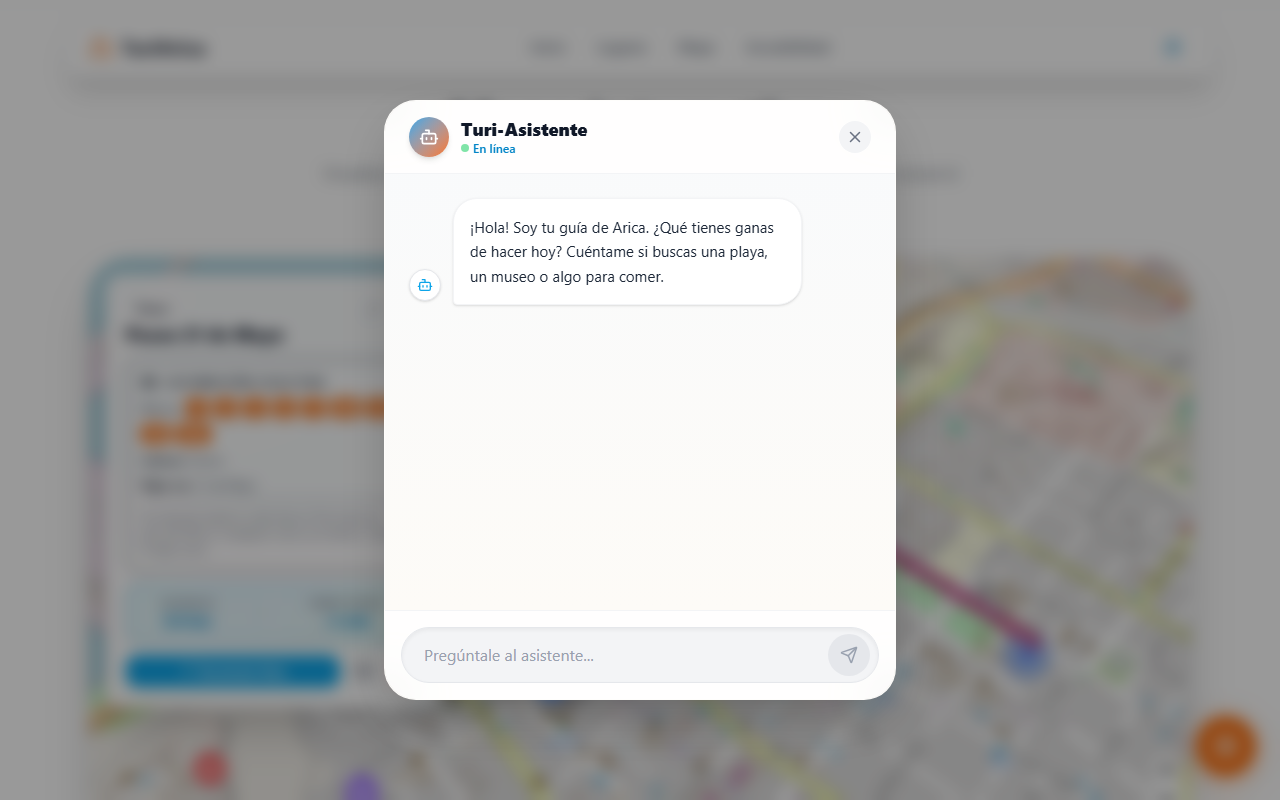
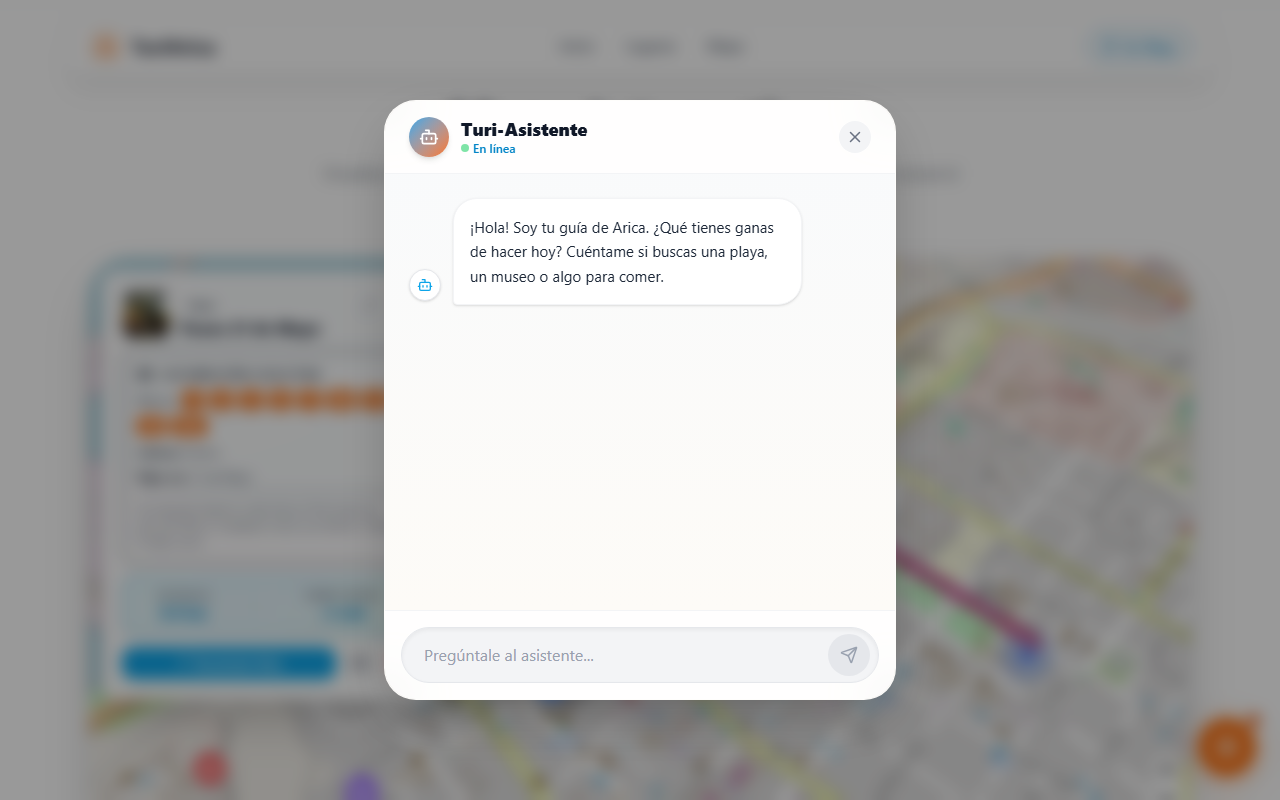
feat(places): agregar fotografias reales y autenticas de cada lugar en tarjetas y modales

diff --git a/src/data/places.js b/src/data/places.js
@@ -1,6 +1,8 @@
 export const places = [
   {
-    id: 1, icon: "Umbrella", name: "Playa El Laucho", category: "Playa", lat: -18.4879, lng: -70.3267, color: "#0EA5E9", audioFile: "audios/laucho_audio.mp3",
+    id: 1, icon: "Umbrella", name: "Playa El Laucho", category: "Playa", lat: -18.4879, lng: -70.3267, color: "#0EA5E9",
+    image: "images/places/laucho.jpg",
+    audioFile: "audios/laucho_audio.mp3",
     shortDesc: "La playa más popular y accesible de Arica.",
     fullDesc: "Playa El Laucho es el balneario por excelencia de Arica. Sus aguas de color turquesa son inusualmente tranquilas y de temperatura agradable, lo que la convierte en una piscina natural ideal para el baño seguro de niños y adultos. Cuenta con una excelente infraestructura inclusiva, incluyendo rampas que llegan casi hasta la orilla del mar, baños adaptados, duchas y arriendo de sombrillas. En su entorno encontrarás una vibrante oferta gastronómica para disfrutar de un hermoso atardecer frente al Pacífico.",
     directions: "Desde el centro, tomar Av. Comandante San Martín al sur por 2 km. Micros 12, 14, 10, 8 (letrero 'Centro/Mall' en ida).",
@@ -8,7 +10,9 @@ export const places = [
     transport: { lineas: ["12", "14", "10", "8"], direccion: "sur", letrero: "Centro / Mall", parada: "Av. Comandante San Martín" }
   },
   {
-    id: 2, icon: "Landmark", name: "Museo de Sitio Colón 10", category: "Museo", lat: -18.4806, lng: -70.3216, color: "#8B5CF6", audioFile: "audios/Museo_audio.mp3",
+    id: 2, icon: "Landmark", name: "Museo de Sitio Colón 10", category: "Museo", lat: -18.4806, lng: -70.3216, color: "#8B5CF6",
+    image: "images/places/colon10.jpg",
+    audioFile: "audios/Museo_audio.mp3",
     shortDesc: "Hogar de las momias Chinchorro, las más antiguas del mundo.",
     fullDesc: "Este asombroso museo está construido literalmente sobre un cementerio prehispánico. El Museo de Sitio Colón 10 resguarda in situ a las momias de la Cultura Chinchorro, reconocidas por la UNESCO como Patrimonio de la Humanidad. Estas momias tienen más de 7.000 años de antigüedad, superando en milenios a las momias egipcias. A través de un suelo de cristal y pasarelas totalmente accesibles, los visitantes pueden observar los cuerpos y ofrendas exactamente como fueron descubiertos, ofreciendo una ventana incomparable al pasado.",
     directions: "Calle Colón 10, a 3 cuadras de la Plaza Colón. Micros 1,2,3,5,7,10,11,16,113 (letrero 'Centro'). Bajas en calle Colón y caminas 3 cuadras.",
@@ -16,7 +20,9 @@ export const places = [
     transport: { lineas: ["1", "2", "3", "5", "7", "10", "11", "16", "113"], direccion: "centro", letrero: "Centro", parada: "Calle Colón" }
   },
   {
-    id: 3, icon: "Church", name: "Iglesia San Marcos", category: "Histórico", lat: -18.4789, lng: -70.3207, color: "#F59E0B", audioFile: "audios/Catedral_audio.mp3",
+    id: 3, icon: "Church", name: "Iglesia San Marcos", category: "Histórico", lat: -18.4789, lng: -70.3207, color: "#F59E0B",
+    image: "images/places/catedral.jpg",
+    audioFile: "audios/Catedral_audio.mp3",
     shortDesc: "Diseñada por Gustave Eiffel, ícono de Arica.",
     fullDesc: "Declarada Monumento Nacional, la Iglesia San Marcos es una joya arquitectónica diseñada en 1876 por los talleres del famoso ingeniero francés Gustave Eiffel. Lo más sorprendente es que su estructura es completamente de fierro fundido, traída en barco desde Francia y ensamblada en Arica para resistir los terremotos de la zona. Su estilo gótico, sus coloridos vitrales y su asimétrica torre la convierten en una parada obligatoria en el corazón de la ciudad. El acceso principal cuenta con rampas para facilitar el ingreso.",
     directions: "Plaza Colón, centro histórico. Cualquier micro con letrero 'Centro' te deja en la plaza.",
@@ -24,7 +30,9 @@ export const places = [
     transport: { lineas: ["1", "2", "3", "5", "7", "10", "11", "16", "113"], direccion: "centro", letrero: "Centro", parada: "Plaza Colón" }
   },
   {
-    id: 4, icon: "Mountain", name: "El Morro de Arica", category: "Histórico", lat: -18.4803, lng: -70.3236, color: "#EF4444", audioFile: "audios/Morro_audio.mp3",
+    id: 4, icon: "Mountain", name: "El Morro de Arica", category: "Histórico", lat: -18.4803, lng: -70.3236, color: "#EF4444",
+    image: "images/places/morro.jpg",
+    audioFile: "audios/Morro_audio.mp3",
     shortDesc: "Cerro con museo histórico y vistas panorámicas.",
     fullDesc: "El Morro de Arica es el símbolo indiscutido de la ciudad. Este imponente peñón costero de 139 metros de altura fue el escenario de una de las batallas más decisivas de la Guerra del Pacífico en 1880. Hoy en día, su cima funciona como un gran balcón natural que ofrece las mejores vistas panorámicas de la ciudad, el puerto y el Océano Pacífico. En la cumbre podrás visitar el Museo Histórico y de Armas, recorrer las trincheras originales y observar el Cristo de la Paz.",
     directions: "Acceso por Av. Colón o calle Rafael Sotomayor. Estacionamiento gratuito. En micro, toma 12,14,10,8 con letrero 'Centro/Mall' y baja en los pies del Morro.",
@@ -32,7 +40,9 @@ export const places = [
     transport: { lineas: ["12", "14", "10", "8"], direccion: "sur", letrero: "Centro / Mall", parada: "Pies del Morro" }
   },
   {
-    id: 5, icon: "Bird", name: "Humedal del Río Lluta", category: "Naturaleza", lat: -18.416128, lng: -70.322369, color: "#10B981", audioFile: "audios/Humedal_audio.mp3",
+    id: 5, icon: "Bird", name: "Humedal del Río Lluta", category: "Naturaleza", lat: -18.416128, lng: -70.322369, color: "#10B981",
+    image: "images/places/humedal.jpg",
+    audioFile: "audios/Humedal_audio.mp3",
     shortDesc: "Santuario natural y refugio de aves migratorias.",
     fullDesc: "Un oasis de vida donde el desierto se encuentra con el mar. El Humedal de la desembocadura del Río Lluta es un Santuario de la Naturaleza de más de 300 hectáreas. Es un punto de descanso y alimentación crucial en la ruta migratoria de más de 160 especies de aves, incluyendo flamencos, patos jergón y gaviotas. Ofrece senderos planos y miradores de madera diseñados para observar la fauna sin perturbar el ecosistema, siendo un lugar perfecto para la fotografía y la conexión con la naturaleza.",
     directions: "Norte de Arica, por Ruta 5 o Av. Las Dunas. No hay micros directas. Solo taxi o auto particular.",
@@ -40,7 +50,9 @@ export const places = [
     transport: { lineas: ["taxi", "auto"], direccion: "norte", letrero: "No hay micros", parada: "Solo vehículo particular" }
   },
   {
-    id: 6, icon: "Tent", name: "Cuevas de Anzota", category: "Naturaleza", lat: -18.5498, lng: -70.3312, color: "#6366F1", audioFile: "audios/CuevasDeAnzota_audio.mp3",
+    id: 6, icon: "Tent", name: "Cuevas de Anzota", category: "Naturaleza", lat: -18.5498, lng: -70.3312, color: "#6366F1",
+    image: "images/places/anzota.jpg",
+    audioFile: "audios/CuevasDeAnzota_audio.mp3",
     shortDesc: "Sistema de grutas en acantilados, lobos marinos.",
     fullDesc: "Las Cuevas de Anzota ofrecen uno de los paisajes más dramáticos y hermosos de la región. Talladas durante milenios por el fuerte oleaje del océano contra los acantilados de la Cordillera de la Costa, estas cavernas naturales fueron utilizadas hace miles de años por la cultura Chinchorro. Hoy, un sendero interpretativo te permite caminar dentro de las grutas, observar la rica fauna marina (como lobos marinos y aves guaneras) y sentir la imponente fuerza de la naturaleza.",
     directions: "12 km al sur por Ruta 1. No hay micros. Solo taxi o auto particular.",
@@ -48,7 +60,9 @@ export const places = [
     transport: { lineas: ["taxi", "auto"], direccion: "sur", letrero: "No hay micros", parada: "Solo vehículo particular" }
   },
   {
-    id: 7, icon: "Utensils", name: "Terminal Agropecuario ASOCAPEC", category: "Gastronomía", lat: -18.4964, lng: -70.2861, color: "#C2714F", audioFile: "audios/terminal_audio.mp3",
+    id: 7, icon: "Utensils", name: "Terminal Agropecuario ASOCAPEC", category: "Gastronomía", lat: -18.4964, lng: -70.2861, color: "#C2714F",
+    image: "images/places/agro.jpg",
+    audioFile: "audios/terminal_audio.mp3",
     shortDesc: "Corazón gastronómico: aceitunas, frutas, tradición.",
     fullDesc: "Visitar el 'Agro' es sumergirse en una explosión de colores, aromas y sabores auténticos del norte de Chile. Este inmenso mercado es el punto neurálgico donde los agricultores de los valles de Azapa y Lluta traen sus mejores productos frescos. Aquí podrás degustar las famosas aceitunas de Azapa, frutas tropicales como mangos y maracuyá, y disfrutar de cocinerías tradicionales que ofrecen platos típicos a excelentes precios. Sus amplios pasillos facilitan el recorrido.",
     directions: "Entrada norte, Panamericana Norte. Micros que digan 'Agro' en el letrero: 12, 14, 8, 16, 113 (líneas naranja y roja).",
@@ -56,7 +70,9 @@ export const places = [
     transport: { lineas: ["12", "14", "8", "16", "113"], direccion: "norte", letrero: "Agro", parada: "Terminal ASOCAPEC" }
   },
   {
-    id: 8, icon: "Waves", name: "Playa Chinchorro", category: "Playa", lat: -18.4630, lng: -70.3052, color: "#38BDF8", audioFile: "audios/chinchorro_audio.mp3",
+    id: 8, icon: "Waves", name: "Playa Chinchorro", category: "Playa", lat: -18.4630, lng: -70.3052, color: "#38BDF8",
+    image: "images/places/chinchorro.jpg",
+    audioFile: "audios/chinchorro_audio.mp3",
     shortDesc: "Extensa playa de aguas cálidas, ideal para familias y caminatas.",
     fullDesc: "Playa Chinchorro es una de las playas más extensas y concurridas de Arica. Destaca por sus aguas inusualmente cálidas y su oleaje moderado, lo que la hace perfecta para la natación y para disfrutar en familia. Su amplia costanera está llena de vida, rodeada de palmeras, parques infantiles, heladerías y restaurantes, creando un ambiente vibrante tanto de día como de noche.",
     directions: "Sector norte de Arica, Av. Raúl Pey Casado. Toma micro 12 o 14 (letrero 'Centro/Mall' en ida), baja en España con Buenos Aires, camina 1 cuadra hacia el oeste.",
@@ -64,7 +80,9 @@ export const places = [
     transport: { lineas: ["12", "14"], direccion: "norte", letrero: "Centro / Mall", parada: "España con Buenos Aires (luego caminar 1 cuadra)" }
   },
   {
-    id: 9, icon: "Activity", name: "Playa Las Machas", category: "Playa", lat: -18.4455, lng: -70.3038, color: "#0284C7", audioFile: "audios/machas_audios.mp3",
+    id: 9, icon: "Activity", name: "Playa Las Machas", category: "Playa", lat: -18.4455, lng: -70.3038, color: "#0284C7",
+    image: "images/places/machas.jpg",
+    audioFile: "audios/machas_audios.mp3",
     shortDesc: "Playa de fuerte oleaje, el paraíso local del surf y bodyboard.",
     fullDesc: "Ubicada a continuación de Playa Chinchorro hacia el norte, Las Machas es conocida por sus fuertes corrientes, por lo que no es apta para el baño. Sin embargo, es un verdadero paraíso para los amantes de los deportes acuáticos como el surf, bodyboard y kitesurf. Su extensa arena oscura es también el lugar preferido para pescar, pasear mascotas y contemplar los espectaculares atardeceres ariqueños.",
     directions: "Extremo norte del borde costero, por Av. Las Dunas. Toma micro 12 o 14 (letrero 'Centro/Mall'), baja en Eliat con Av. España, camina 1 cuadra hacia el oeste (hacia el Pipo).",
@@ -72,7 +90,9 @@ export const places = [
     transport: { lineas: ["12", "14"], direccion: "norte", letrero: "Centro / Mall", parada: "Eliat con Av. España (luego caminar 1 cuadra)" }
   },
   {
-    id: 10, icon: "Fish", name: "Playa La Lisera", category: "Playa", lat: -18.4933, lng: -70.3261, color: "#14B8A6", audioFile: "audios/lisera_audio.mp3",
+    id: 10, icon: "Fish", name: "Playa La Lisera", category: "Playa", lat: -18.4933, lng: -70.3261, color: "#14B8A6",
+    image: "images/places/lisera.jpg",
+    audioFile: "audios/lisera_audio.mp3",
     shortDesc: "Playa con forma de herradura, arena blanca y aguas sin olas.",
     fullDesc: "Playa La Lisera se caracteriza por su singular forma de herradura cerrada, la cual la protege de las corrientes oceánicas y la convierte en una gran piscina natural de aguas sumamente tranquilas. Es el lugar perfecto para ir con niños pequeños o practicar snorkel seguro. Cuenta con hermosas áreas verdes, arena blanca y caleta de pescadores cercana, siendo uno de los balnearios más tradicionales al sur del Morro.",
     directions: "Al sur de Playa El Laucho, continuando por Av. Comandante San Martín. Las mismas micros que van a El Laucho (12,14,10,8) te dejan cerca.",
@@ -80,7 +100,9 @@ export const places = [
     transport: { lineas: ["12", "14", "10", "8"], direccion: "sur", letrero: "Centro / Mall", parada: "Av. Comandante San Martín" }
   },
   {
-    id: 11, icon: "Map", name: "Ex Isla Alacrán", category: "Histórico", lat: -18.4803, lng: -70.3324, color: "#475569", audioFile: "audios/alacran_audio.mp3",
+    id: 11, icon: "Map", name: "Ex Isla Alacrán", category: "Histórico", lat: -18.4803, lng: -70.3324, color: "#475569",
+    image: "images/places/alacran.jpg",
+    audioFile: "audios/alacran_audio.mp3",
     shortDesc: "Península histórica y sede de la famosa y peligrosa ola 'El Gringo'.",
     fullDesc: "Esta antigua isla fue unida artificialmente al continente en la década de 1960. La Ex Isla Alacrán es un monumento nacional que aún conserva restos del antiguo fuerte colonial San José. A nivel internacional, es famosa por la ola 'El Gringo' (o 'Flopos'), una ola tubular de nivel mundial que rompe peligrosamente sobre roca y que atrae a campeones mundiales de surf y bodyboard.",
     directions: "Frente al Morro de Arica, ingresando por el borde costero centro. Micros 12,14,8,10 (letrero 'Centro/Mall') te dejan en el borde costero, caminas hacia el Morro.",
@@ -88,7 +110,9 @@ export const places = [
     transport: { lineas: ["12", "14", "8", "10"], direccion: "sur", letrero: "Centro / Mall", parada: "Borde Costero" }
   },
   {
-    id: 12, icon: "Trophy", name: "Estadio Carlos Dittborn", category: "Deporte", lat: -18.4871, lng: -70.2974, color: "#22C55E", audioFile: "audios/dittborn_audio.mp3",
+    id: 12, icon: "Trophy", name: "Estadio Carlos Dittborn", category: "Deporte", lat: -18.4871, lng: -70.2974, color: "#22C55E",
+    image: "images/places/dittborn.jpg",
+    audioFile: "audios/dittborn_audio.mp3",
     shortDesc: "Histórico estadio, sede del Mundial de 1962 y hogar del club San Marcos.",
     fullDesc: "El Estadio Mundialista Carlos Dittborn es un orgullo deportivo de la ciudad. Fue construido y modernizado para ser sede de la Copa Mundial de la FIFA en 1962, gesta que se logró bajo el histórico lema 'Porque no tenemos nada, queremos hacerlo todo'. Hoy en día, es el corazón del fútbol local, siendo la casa oficial del equipo San Marcos de Arica ('Los Bravos del Morro').",
     directions: "Av. 18 de Septiembre 2000, sector este de la ciudad. Micros 16, 8, 113 (bajan cerca). También 12 y 14 dejan en Av. 18 de Septiembre a unas cuadras.",
@@ -96,7 +120,9 @@ export const places = [
     transport: { lineas: ["16", "8", "113", "12", "14"], direccion: "este", letrero: "18 de Septiembre / Estadio", parada: "Av. 18 de Septiembre" }
   },
   {
-    id: 13, icon: "Shell", name: "Museo del Mar", category: "Museo", lat: -18.4791, lng: -70.3193, color: "#3B82F6", audioFile: "audios/museodelmar_audio.mp3",
+    id: 13, icon: "Shell", name: "Museo del Mar", category: "Museo", lat: -18.4791, lng: -70.3193, color: "#3B82F6",
+    image: "images/places/museodelmar.jpg",
+    audioFile: "audios/museodelmar_audio.mp3",
     shortDesc: "Increíble colección de caracolas, fósiles y especies marinas.",
     fullDesc: "Ubicado en el pintoresco Pasaje Sangra, en pleno centro de la ciudad, el Museo del Mar de Arica exhibe una fascinante colección privada de más de 1.200 especies de caracolas marinas procedentes tanto de las costas de Chile como de diversas partes del mundo. Además de las conchas, el museo cuenta con acuarios y fósiles que enseñan a grandes y chicos sobre la increíble biodiversidad del Océano Pacífico.",
     directions: "Pasaje Sangra 315, a pasos de la calle peatonal 21 de Mayo. Cualquier micro con letrero 'Centro' te deja en 21 de Mayo, caminas al Pasaje Sangra.",
@@ -104,7 +130,9 @@ export const places = [
     transport: { lineas: ["1", "2", "3", "5", "7", "10", "11", "16", "113"], direccion: "centro", letrero: "Centro", parada: "21 de Mayo" }
   },
   {
-    id: 14, icon: "ShoppingBag", name: "Paseo 21 de Mayo", category: "Paseo", lat: -18.4783, lng: -70.3188, color: "#EC4899", audioFile: "audios/21demayo_audio.mp3",
+    id: 14, icon: "ShoppingBag", name: "Paseo 21 de Mayo", category: "Paseo", lat: -18.4783, lng: -70.3188, color: "#EC4899",
+    image: "images/places/21demayo.jpg",
+    audioFile: "audios/21demayo_audio.mp3",
     shortDesc: "El corazón comercial y peatonal de Arica, ideal para pasear y comprar.",
     fullDesc: "La calle peatonal 21 de Mayo es el punto de encuentro por excelencia de la ciudad. A lo largo de sus cuadras sombreadas por modernos toldos, encontrarás una enorme variedad de tiendas, galerías comerciales, artesanías locales, cafeterías y restaurantes. Es el mejor lugar para comprar recuerdos, probar un helado, disfrutar de la música de los artistas callejeros o probar un pisco sour de maracuyá en alguna terraza.",
     directions: "Se extiende desde la calle Arturo Prat hasta los pies del Morro. Cualquier micro con letrero 'Centro' te deja cerca.",

diff --git a/src/components/PlaceCard.jsx b/src/components/PlaceCard.jsx
@@ -10,49 +10,69 @@ export default function PlaceCard({ place, onAudioClick, onRouteClick, onMoreCli
       whileInView={{ opacity: 1, y: 0 }}
       viewport={{ once: true, margin: "-50px" }}
       whileHover={{ y: -5 }}
-      className="glass-panel rounded-2xl overflow-hidden flex flex-col h-full group bg-white shadow-lg hover:shadow-xl transition-shadow"
+      className="glass-panel rounded-2xl overflow-hidden flex flex-col h-full group bg-white shadow-md hover:shadow-2xl transition-all border border-gray-100"
     >
-      <div 
-        className="h-32 relative overflow-hidden flex items-center justify-center"
-        style={{ background: `linear-gradient(135deg, ${place.color}40, ${place.color}80)` }}
-      >
-        <span className="absolute top-3 left-3 px-3 py-1 bg-white/90 backdrop-blur-md rounded-full text-xs font-bold text-gray-800 shadow-sm">
+      {/* Real Place Photo with Category and Icon Overlay */}
+      <div className="h-44 sm:h-48 relative overflow-hidden bg-slate-900">
+        <img 
+          src={place.image} 
+          alt={place.name} 
+          className="w-full h-full object-cover group-hover:scale-108 transition-transform duration-500 ease-out"
+          loading="lazy"
+        />
+        <div className="absolute inset-0 bg-gradient-to-t from-black/70 via-black/15 to-black/25 pointer-events-none" />
+
+        {/* Category Badge */}
+        <span className="absolute top-3 left-3 px-3 py-1 bg-white/95 backdrop-blur-md rounded-full text-xs font-bold text-gray-900 shadow-md border border-white/60">
           {place.category}
         </span>
-        <motion.div 
-          whileHover={{ scale: 1.2, rotate: 10 }}
-          className="p-4 bg-white/20 rounded-2xl backdrop-blur-sm border border-white/40 shadow-lg"
+
+        {/* Floating Brand Color Icon */}
+        <div 
+          className="absolute bottom-3 right-3 w-10 h-10 rounded-2xl backdrop-blur-md border border-white/50 shadow-lg flex items-center justify-center text-white transition-transform duration-300 group-hover:scale-110"
+          style={{ backgroundColor: `${place.color}f0` }}
         >
-          <IconComponent size={32} className="text-white" />
-        </motion.div>
+          <IconComponent size={20} />
+        </div>
       </div>
 
-      <div className="p-6 flex flex-col flex-grow">
-        <h3 className="text-xl font-bold mb-2 text-gray-900 group-hover:text-brand-600 transition-colors">
+      <div className="p-5 sm:p-6 flex flex-col flex-grow">
+        <h3 className="text-lg sm:text-xl font-extrabold mb-1.5 text-gray-900 group-hover:text-brand-600 transition-colors">
           {place.name}
         </h3>
-        <p className="text-gray-600 text-sm mb-6 flex-grow">
+
+        {/* Locomotion quick pill */}
+        {place.transport?.lineas && (
+          <div className="flex items-center gap-1.5 mb-2.5 text-[11px] font-semibold text-gray-500">
+            <LucideIcons.Bus size={13} className="text-accent-500 shrink-0" />
+            <span className="truncate">Micros: {place.transport.lineas.slice(0, 4).join(', ')}{place.transport.lineas.length > 4 ? '...' : ''}</span>
+          </div>
+        )}
+
+        <p className="text-gray-600 text-xs sm:text-sm mb-5 flex-grow line-clamp-2 leading-relaxed">
           {place.shortDesc}
         </p>
 
-        <div className="flex gap-2 mt-auto">
+        <div className="flex items-center gap-2 mt-auto pt-2 border-t border-gray-100">
           <button 
             onClick={() => onAudioClick(place)}
-            className="p-2 rounded-xl bg-gray-100 hover:bg-gray-200 text-gray-600 hover:text-brand-600 transition-colors"
+            className="p-2.5 rounded-xl bg-gray-100 hover:bg-gray-200 text-gray-600 hover:text-brand-600 transition-colors"
+            title={`Escuchar descripción de ${place.name}`}
             aria-label={`Escuchar descripción de ${place.name}`}
           >
             <LucideIcons.Volume2 size={18} />
           </button>
           <button 
             onClick={() => onRouteClick(place)}
-            className="p-2 rounded-xl bg-gray-100 hover:bg-gray-200 text-gray-600 hover:text-brand-600 transition-colors"
+            className="p-2.5 rounded-xl bg-gray-100 hover:bg-gray-200 text-gray-600 hover:text-brand-600 transition-colors"
+            title={`Cómo llegar a ${place.name}`}
             aria-label={`Cómo llegar a ${place.name}`}
           >
             <LucideIcons.Navigation size={18} />
           </button>
           <button 
             onClick={() => onMoreClick(place)}
-            className="flex-1 py-2 px-4 rounded-xl bg-brand-50 hover:bg-brand-100 text-brand-600 hover:text-brand-700 font-bold transition-colors border border-brand-100"
+            className="flex-1 py-2.5 px-4 rounded-xl bg-brand-50 hover:bg-brand-100 text-brand-600 hover:text-brand-700 font-bold text-xs sm:text-sm transition-colors border border-brand-100 text-center"
           >
             Ver más
           </button>

diff --git a/src/components/InteractiveMap.jsx b/src/components/InteractiveMap.jsx
@@ -318,7 +318,13 @@ export default function InteractiveMap({
                 className="bg-white/95 dark:bg-gray-900/95 backdrop-blur-md rounded-2xl shadow-xl border border-gray-200 dark:border-gray-700 p-2.5 sm:p-3 flex items-center justify-between gap-2 sm:gap-3"
               >
                 <div className="flex items-center gap-2 overflow-hidden">
-                  <span className="w-3 h-3 rounded-full shrink-0" style={{ backgroundColor: selectedPlace.color }} />
+                  {selectedPlace.image && (
+                    <img 
+                      src={selectedPlace.image} 
+                      alt="" 
+                      className="w-6 h-6 rounded-md object-cover shrink-0 border border-white/50 shadow-xs" 
+                    />
+                  )}
                   <span className="font-bold text-xs text-gray-900 dark:text-white truncate">
                     {selectedPlace.name}
                   </span>
@@ -356,17 +362,26 @@ export default function InteractiveMap({
                 exit={{ opacity: 0, y: -10, scale: 0.95 }}
                 className="bg-white/95 dark:bg-gray-900/95 backdrop-blur-md rounded-2xl shadow-2xl border border-gray-200 dark:border-gray-700 p-3.5 sm:p-5 overflow-hidden max-h-[62vh] sm:max-h-[75vh] flex flex-col"
               >
-                {/* Header */}
+                {/* Header with Photo Thumbnail */}
                 <div className="flex items-start justify-between gap-2 mb-3">
-                  <div>
-                    <span className="inline-block px-2.5 py-0.5 rounded-full text-xs font-bold bg-accent-100 text-accent-700 dark:bg-accent-950 dark:text-accent-300 mb-1">
-                      {selectedPlace.category}
-                    </span>
-                    <h3 className="font-extrabold text-gray-900 dark:text-white text-lg leading-snug">
-                      {selectedPlace.name}
-                    </h3>
+                  <div className="flex items-center gap-2.5 overflow-hidden">
+                    {selectedPlace.image && (
+                      <img 
+                        src={selectedPlace.image} 
+                        alt={selectedPlace.name} 
+                        className="w-12 h-12 rounded-xl object-cover shadow-sm border border-gray-100 dark:border-gray-700 shrink-0" 
+                      />
+                    )}
+                    <div className="overflow-hidden">
+                      <span className="inline-block px-2 py-0.5 rounded-full text-[10px] font-bold bg-accent-100 text-accent-700 dark:bg-accent-950 dark:text-accent-300 mb-0.5">
+                        {selectedPlace.category}
+                      </span>
+                      <h3 className="font-extrabold text-gray-900 dark:text-white text-base leading-snug truncate">
+                        {selectedPlace.name}
+                      </h3>
+                    </div>
                   </div>
-                  <div className="flex items-center gap-1">
+                  <div className="flex items-center gap-1 shrink-0">
                     <button 
                       onClick={() => setIsMinimized(true)}
                       className="p-1.5 rounded-full hover:bg-gray-100 dark:hover:bg-gray-800 text-gray-400 hover:text-gray-700 dark:hover:text-gray-200 transition-colors"

diff --git a/src/App.jsx b/src/App.jsx
@@ -262,18 +262,30 @@ function App() {
               className="bg-white rounded-3xl p-5 sm:p-8 max-w-2xl w-full relative shadow-2xl max-h-[90vh] overflow-y-auto"
               onClick={e => e.stopPropagation()}
             >
-              <button 
-                className="absolute top-4 right-4 p-2 rounded-full hover:bg-gray-100 text-gray-500"
-                onClick={() => setModalPlace(null)}
-              >
-                <LucideIcons.X size={20} />
-              </button>
+              {/* Place Hero Image in Modal */}
+              <div className="relative h-48 sm:h-60 -mx-5 -mt-5 sm:-mx-8 sm:-mt-8 mb-5 overflow-hidden">
+                <img 
+                  src={modalPlace.image} 
+                  alt={modalPlace.name} 
+                  className="w-full h-full object-cover"
+                />
+                <div className="absolute inset-0 bg-gradient-to-t from-black/85 via-black/30 to-black/20" />
+                <button 
+                  className="absolute top-4 right-4 p-2 rounded-full bg-black/40 hover:bg-black/60 text-white backdrop-blur-md transition-colors"
+                  onClick={() => setModalPlace(null)}
+                  aria-label="Cerrar modal"
+                >
+                  <LucideIcons.X size={20} />
+                </button>
+                <div className="absolute bottom-4 left-5 right-5 text-white">
+                  <span className="inline-block px-3 py-0.5 bg-accent-500 text-white text-xs font-bold rounded-full mb-1.5 shadow-md">
+                    {modalPlace.category}
+                  </span>
+                  <h2 className="text-2xl sm:text-3xl font-extrabold text-white drop-shadow-md">{modalPlace.name}</h2>
+                </div>
+              </div>
               
               <div className="mb-6">
-                <span className="inline-block px-3 py-1 bg-accent-50 text-accent-600 text-xs font-bold rounded-full mb-3 border border-accent-200">
-                  {modalPlace.category}
-                </span>
-                <h2 className="text-2xl sm:text-3xl font-bold mb-3 text-gray-900">{modalPlace.name}</h2>
                 <p className="text-gray-600 leading-relaxed text-sm sm:text-base mb-5">{modalPlace.fullDesc}</p>
                 
                 <div className="bg-gray-50 rounded-xl p-5 border border-gray-100 space-y-4">
